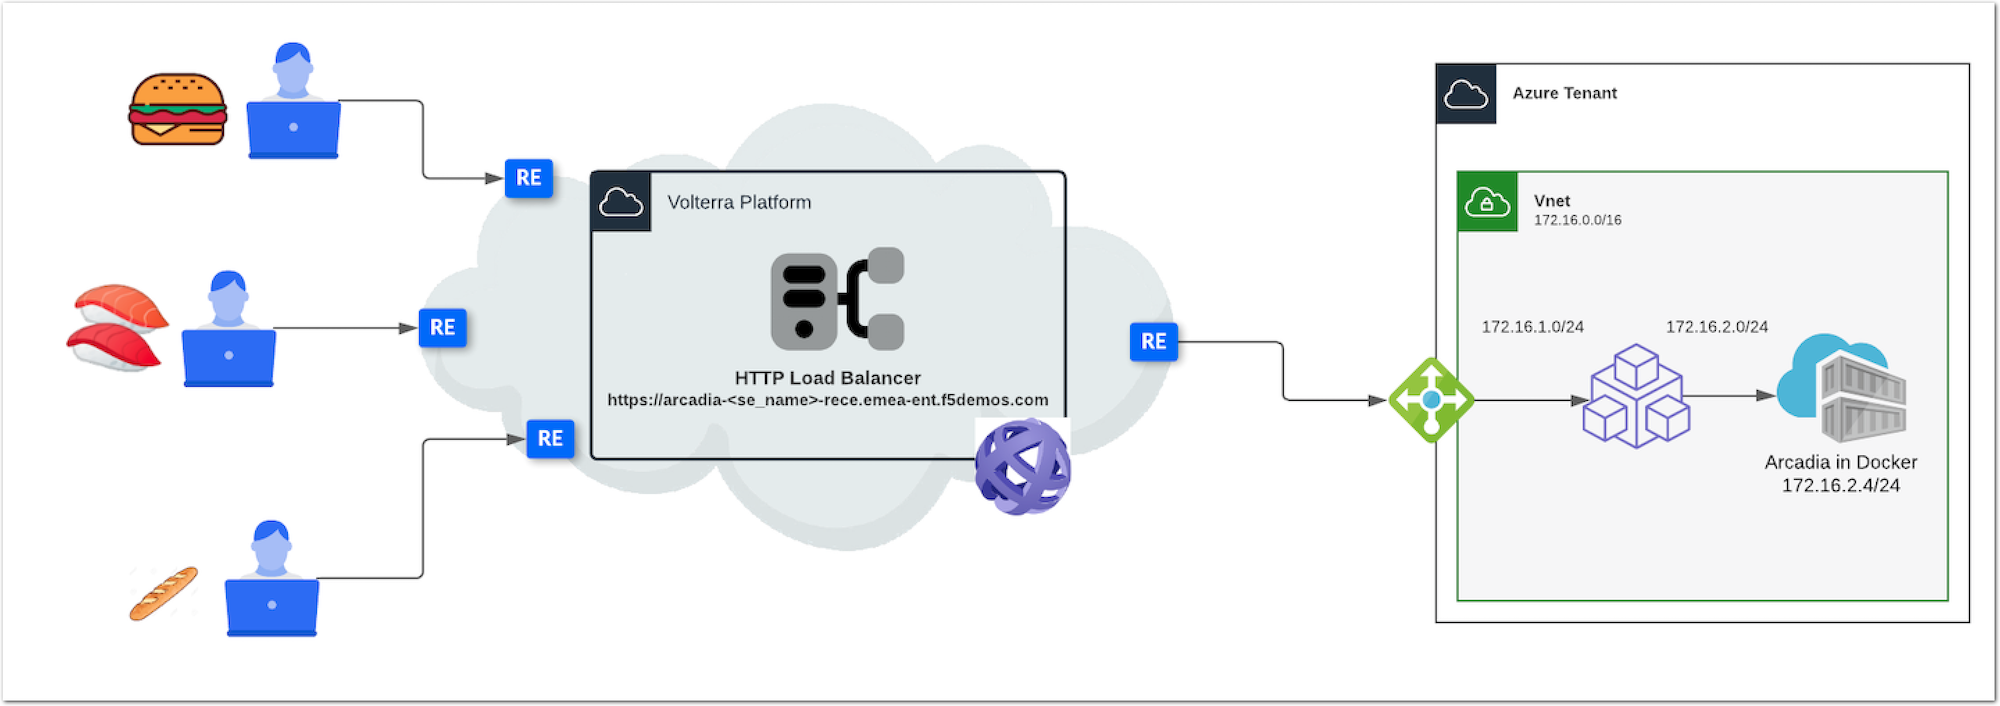
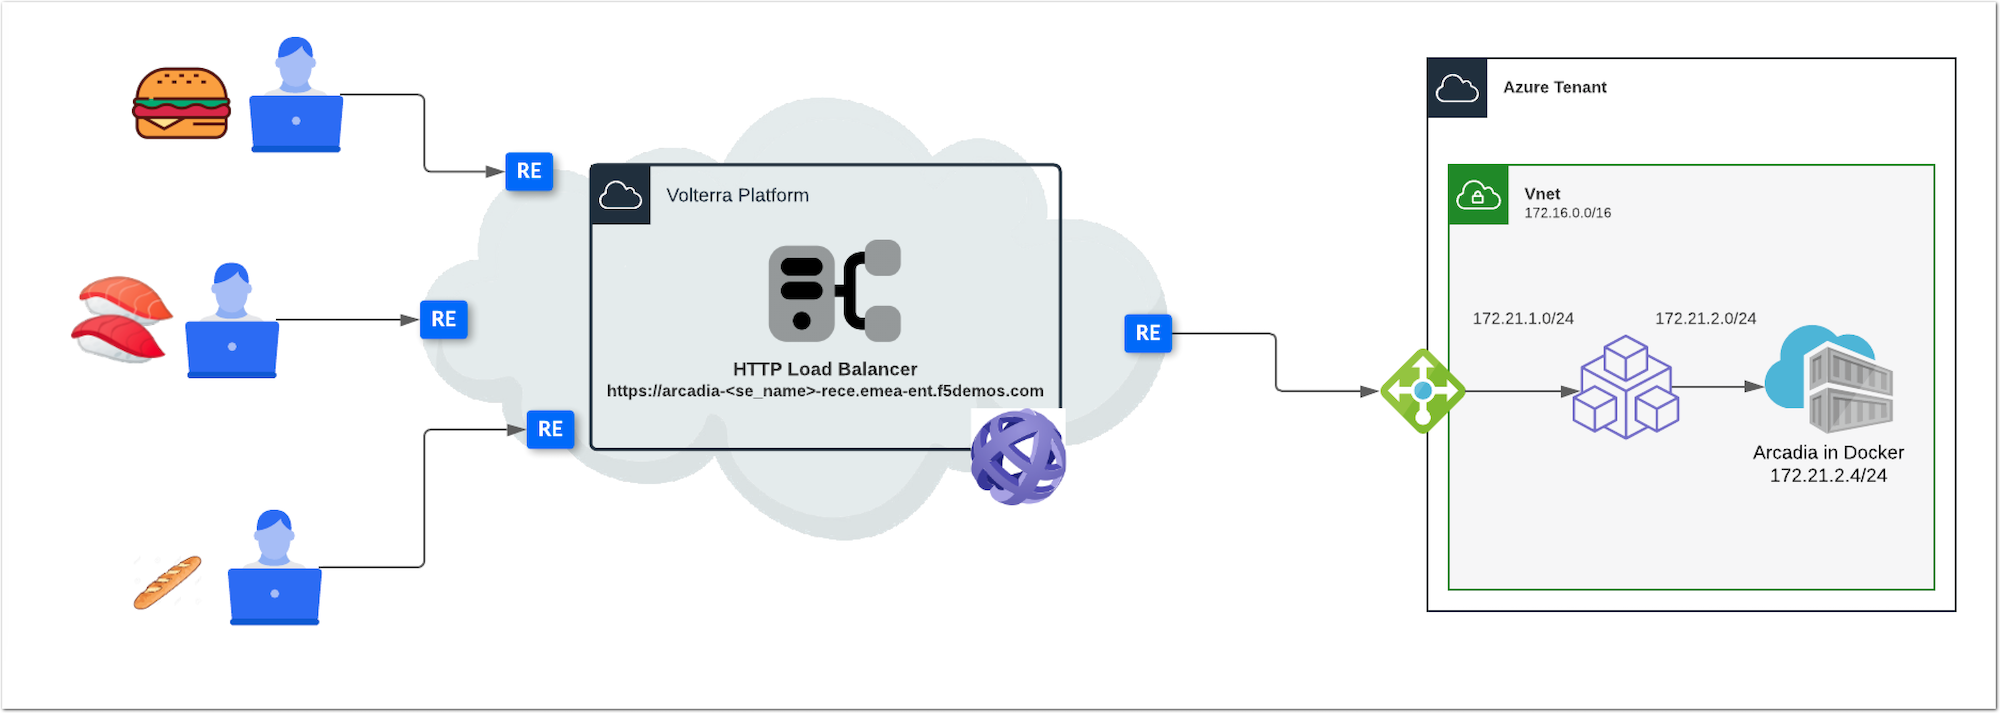
class1

diff --git a/docs/class1/module3/lab1/lab1.rst b/docs/class1/module3/lab1/lab1.rst
@@ -1,2 +1,39 @@
 Lab 1 - Expose the private Arcadia application through the Mesh Node only (CE-Only)
 ###################################################################################
+
+For this lab, as the Mesh Node is shared between all SE/Students, we will use a ``fake FQDN/DNS for your LB``. There is one DNS provided by Azure, but so that all of SE/Students can push their own HTTP LB, each of you will use a fake FQDN for the LB. You will add a new entry in your ``Host file`` in order to target the Azure Mesh Node LB public IP addess.
+
+FYI, the public Azure IP address of the node is ``20.67.26.211``.
+
+Create a HTTP LB and expose it on the Mesh Node only
+****************************************************
+
+If you understand correctly this use case, we want the WAAP policy applied on a HTTP LB exposed on the Mesh Node in Azure only. We don't want the users/consumers to transit through the F5XC Global Network.
+
+* Create a new ``HTTP LB`` - NOT A HTTPS LB.
+* For the FQDN, use this convention ``arcadia-<se_name>>-ceonly.fakefqdn.azure``
+* Select the Origin Pool used and created in the previous lab. This private Origin Pool.
+* Expose this LB on ``dierick-demowaap`` site
+
+  * In VIP Configuration, enable ``Show Advanced Fields``
+  * Advertise Custom
+  * Create a new custom config (show advanced fields)
+  * Select the ``dierick-demowaap`` site and expose on ``outside`` interface
+
+  .. image:: ../pictures/lab1/custom-vip.png
+     :align: center
+
+* Assign your WAAP policy
+
+Modify you Host file entries
+****************************
+
+* Modify your host file in order to target ``20.67.26.211`` for the FQDN created ``arcadia-<se_name>>-ceonly.fakefqdn.azure``
+
+
+Test your CE-Only lab
+*********************
+
+* As previous labs, connect to your LB and send attacks
+
+.. note:: As you can notice, in the 3 use cases, we keep consistancy with one WAAP policy whereever the LB or the App reside. 

diff --git a/docs/class1/module1/lab1/lab1.rst b/docs/class1/module1/lab1/lab1.rst
@@ -24,6 +24,9 @@ We will expose this application on the F5XC Global Network by configuring the fo
 
 .. warning:: All over the lab, please be careful and stay in your NameSpace. Every SE/Student has his own NameSpace.
 
+.. image:: ../pictures/lab1/lab1-archi.png
+   :align: center
+
 Terminology
 ===========
 
@@ -32,10 +35,6 @@ F5XC reverse proxy and HTTP load balancer concepts allow for flow control of app
 
 **Origin Pool**
 An origin pool is a mechanism to configure a set of application endpoints grouped together into a resource pool. These endpoints could be IP:port tuples within a give site or a service discovered by one of Volterra’s many service discovery methods. These objects will be used the next step.
-
-.. image:: ../pictures/lab1/lab1-archi.png
-   :align: center
-
 
 
 .. note:: The goal is to publish this application through the F5XC Global Network so people all over the world can reach the closest F5XC RE.

diff --git a/docs/class1/module2/module2.rst b/docs/class1/module2/module2.rst
@@ -15,9 +15,9 @@ The architecture is as below
 As you notice:
 
 * Arcadia is running in a private docker instance (Ubuntu) in Azure
-* Docker instance IP address is ``172.16.2.4``
+* Docker instance IP address is ``172.21.2.4``
 * A MESH Node is already deployed, up and running, in order to do not wait 20 minutes
-* This Node has 2 interfaces connected to ``external-subnet (172.16.1.0/24)`` and ``internal-subnet (172.16.2.0/24)``
+* This Node has 2 interfaces connected to ``external-subnet (172.21.1.0/24)`` and ``internal-subnet (172.21.2.0/24)``
 
 |
 

diff --git a/docs/class1/module2/lab1/lab1.rst b/docs/class1/module2/lab1/lab1.rst
@@ -18,7 +18,7 @@ For this lab, we will use the following object naming convention
 
    Origin Pool          Select ``IP Address of OP on Given site``
 
-                        IP ``172.16.2.4``
+                        IP ``172.21.2.4``
    
                         Site ``dierick-demowaap``
    
